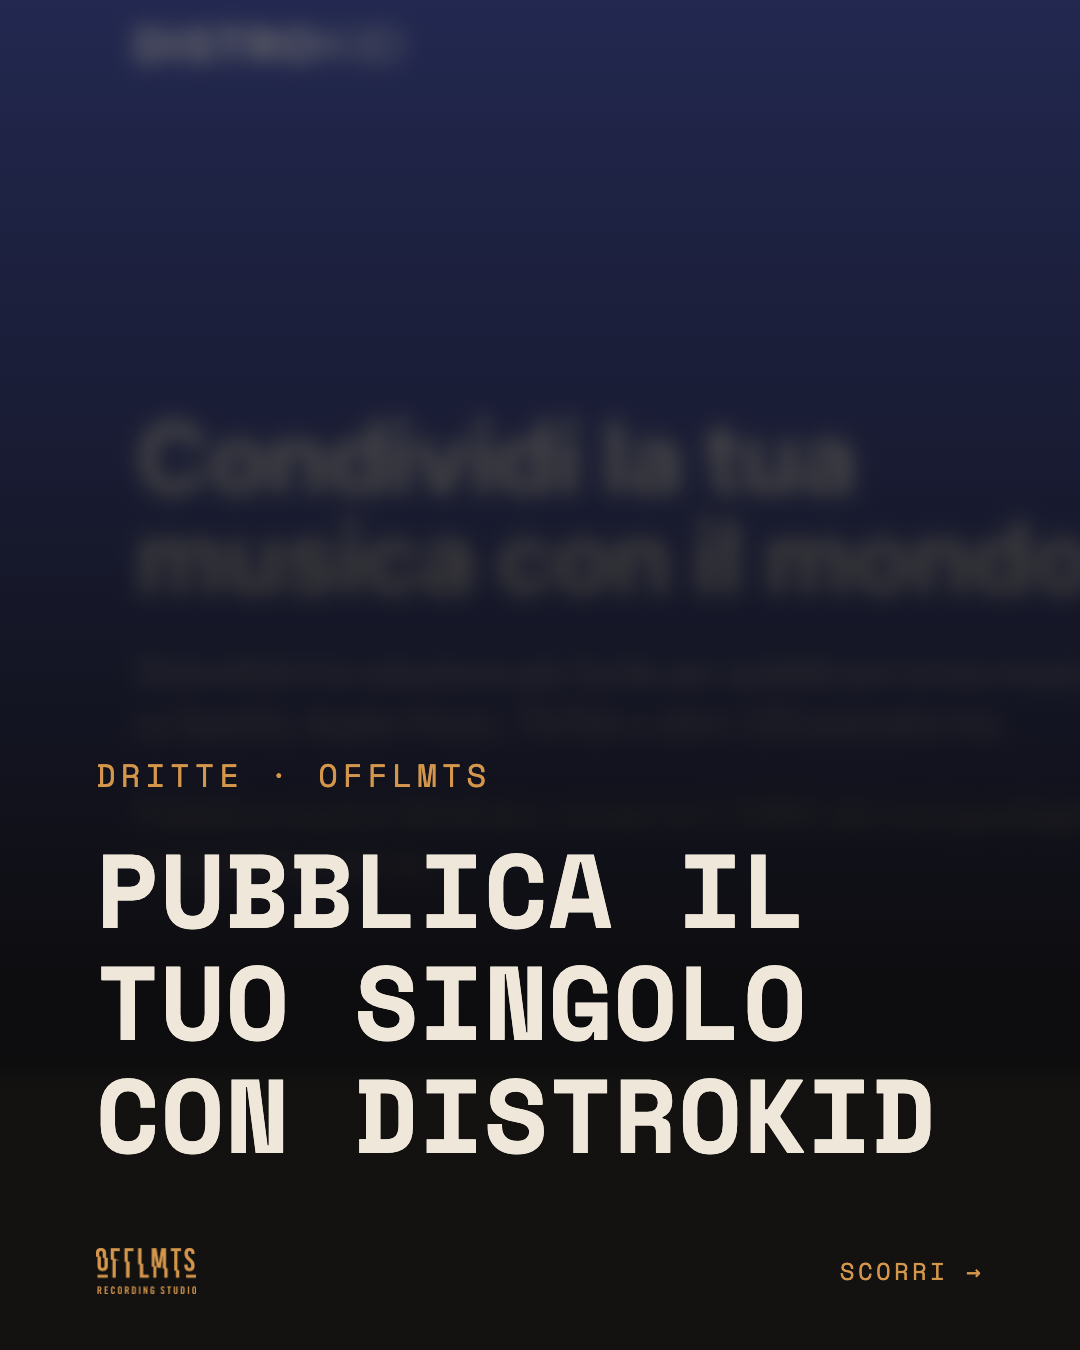
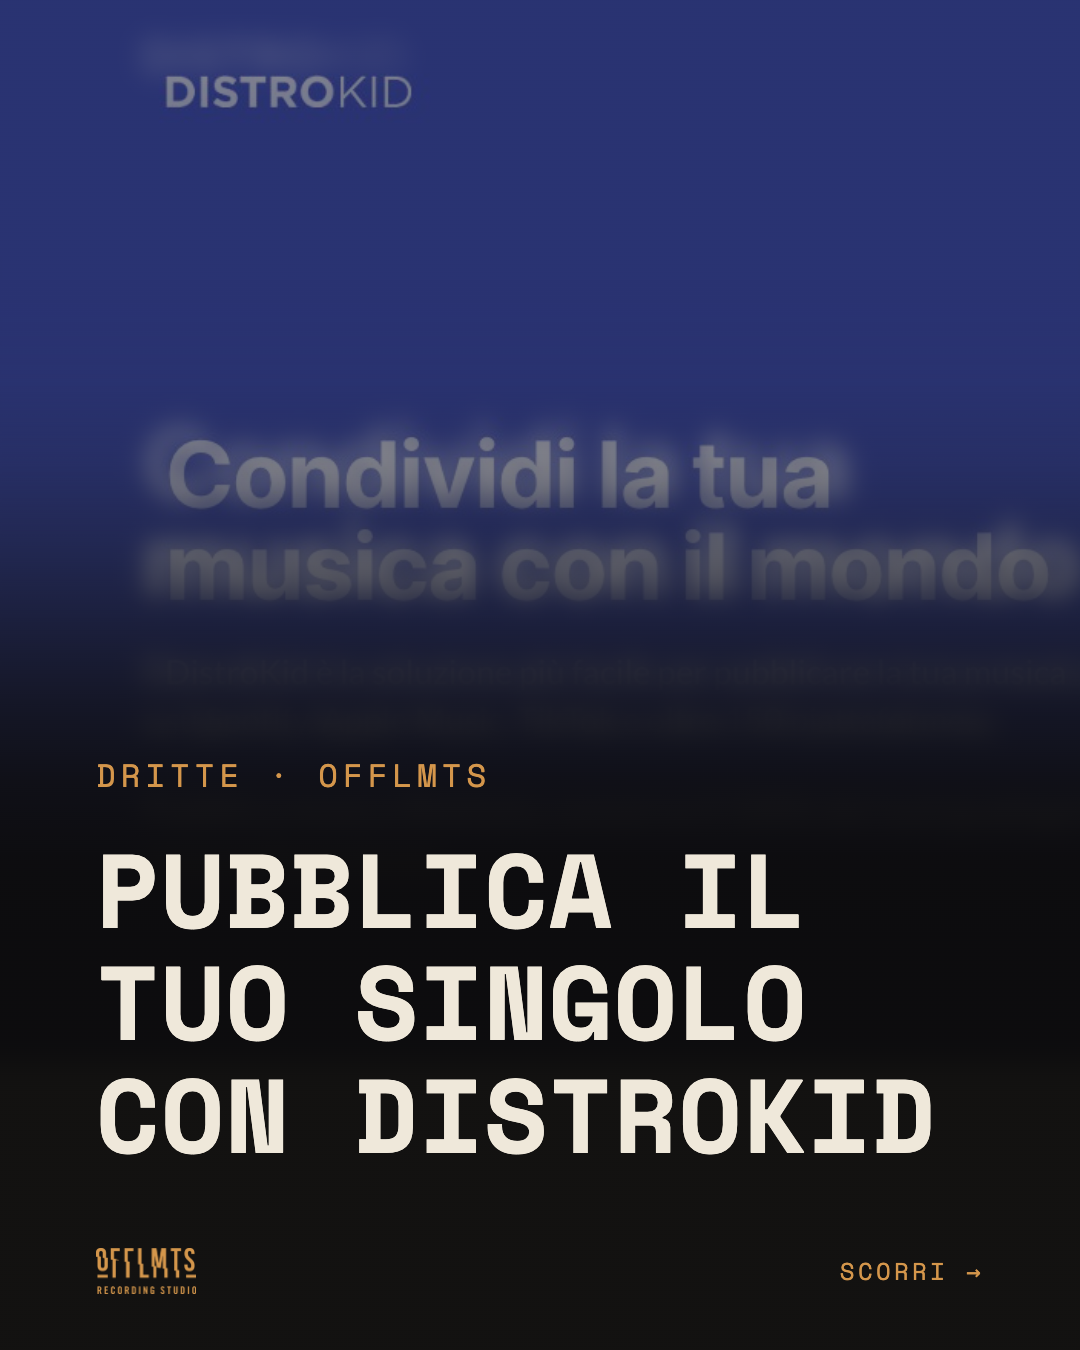
Carosello DistroKid definitivo: copertina 1a via di mezzo
Claude-Session: https://claude.ai/code/session_01Fer8k3Jv7i5PuET45VkbjN

diff --git a/instagram-caroselli/pubblicare-singolo-su-distrokid/carosello-distrokid.html b/instagram-caroselli/pubblicare-singolo-su-distrokid/carosello-distrokid.html
@@ -30,8 +30,10 @@ strong{color:var(--oro);font-weight:600}
 .scorri{color:var(--oro)}
 
 /* COPERTINA A: screenshot a tutto campo, velo scuro, titolo sopra */
-.cA .sfondo{position:absolute;inset:0;background:url(../../src/assets/img/dritte/distrokid-iscrizione.jpg) 22% 50%/auto 100% no-repeat;filter:grayscale(.3) blur(10px);transform:scale(1.08)}
-.cA .velo{position:absolute;inset:0;background:linear-gradient(180deg,rgba(11,10,9,.55) 0%,rgba(11,10,9,.80) 45%,rgba(11,10,9,.97) 75%)}
+.cA .sfondo,.cA .sfocato{position:absolute;inset:0;background:url(../../src/assets/img/dritte/distrokid-iscrizione.jpg) 22% 50%/auto 100% no-repeat}
+.cA .sfondo{filter:grayscale(.15)}
+.cA .sfocato{filter:grayscale(.3) blur(12px);transform:scale(1.06);-webkit-mask-image:linear-gradient(180deg,rgba(0,0,0,.35) 0%,rgba(0,0,0,0.350) 20.0%,rgba(0,0,0,0.360) 24.8%,rgba(0,0,0,0.417) 29.5%,rgba(0,0,0,0.529) 34.2%,rgba(0,0,0,0.675) 39.0%,rgba(0,0,0,0.821) 43.8%,rgba(0,0,0,0.933) 48.5%,rgba(0,0,0,0.990) 53.2%,rgba(0,0,0,1.000) 58.0%,#000 100%);mask-image:linear-gradient(180deg,rgba(0,0,0,.35) 0%,rgba(0,0,0,0.350) 20.0%,rgba(0,0,0,0.360) 24.8%,rgba(0,0,0,0.417) 29.5%,rgba(0,0,0,0.529) 34.2%,rgba(0,0,0,0.675) 39.0%,rgba(0,0,0,0.821) 43.8%,rgba(0,0,0,0.933) 48.5%,rgba(0,0,0,0.990) 53.2%,rgba(0,0,0,1.000) 58.0%,#000 100%)}
+.cA .velo{position:absolute;inset:0;background:linear-gradient(180deg,rgba(11,10,9,.38) 0%,rgba(11,10,9,0.380) 22.0%,rgba(11,10,9,0.389) 28.0%,rgba(11,10,9,0.441) 34.0%,rgba(11,10,9,0.542) 40.0%,rgba(11,10,9,0.675) 46.0%,rgba(11,10,9,0.808) 52.0%,rgba(11,10,9,0.909) 58.0%,rgba(11,10,9,0.961) 64.0%,rgba(11,10,9,0.970) 70.0%,rgba(11,10,9,.97) 100%)}
 .cA .pad{justify-content:flex-end;padding-bottom:40px}
 .cA h1{font-size:104px}
 
@@ -56,7 +58,7 @@ strong{color:var(--oro);font-weight:600}
 <body>
 
 <!-- 1A -->
-<section class="slide cA" id="s1a"><div class="sfondo"></div><div class="velo"></div>
+<section class="slide cA" id="s1a"><div class="sfondo"></div><div class="sfocato"></div><div class="velo"></div>
  <div class="pad"><p class="occhiello">Dritte · OFFLMTS</p><h1>Pubblica il tuo singolo con DistroKid</h1></div>
  <div class="piede"><img src="../../src/assets/img/logo-offlmts.png" alt=""><span class="scorri">Scorri →</span></div></section>
 
